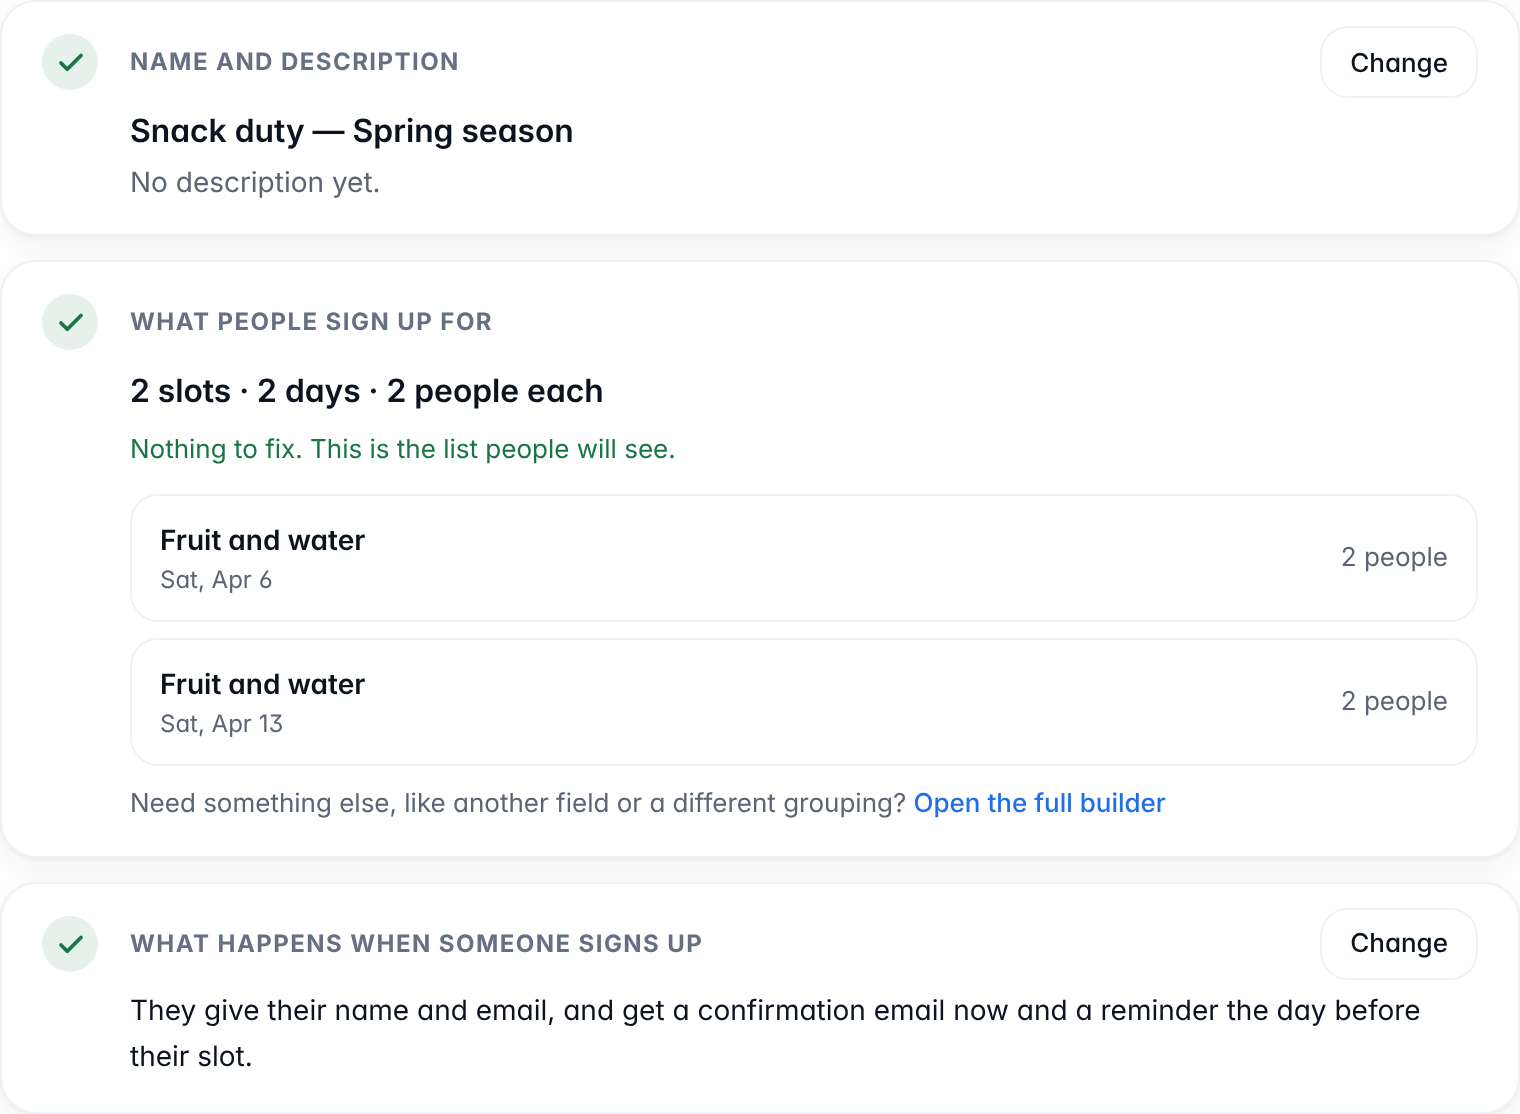
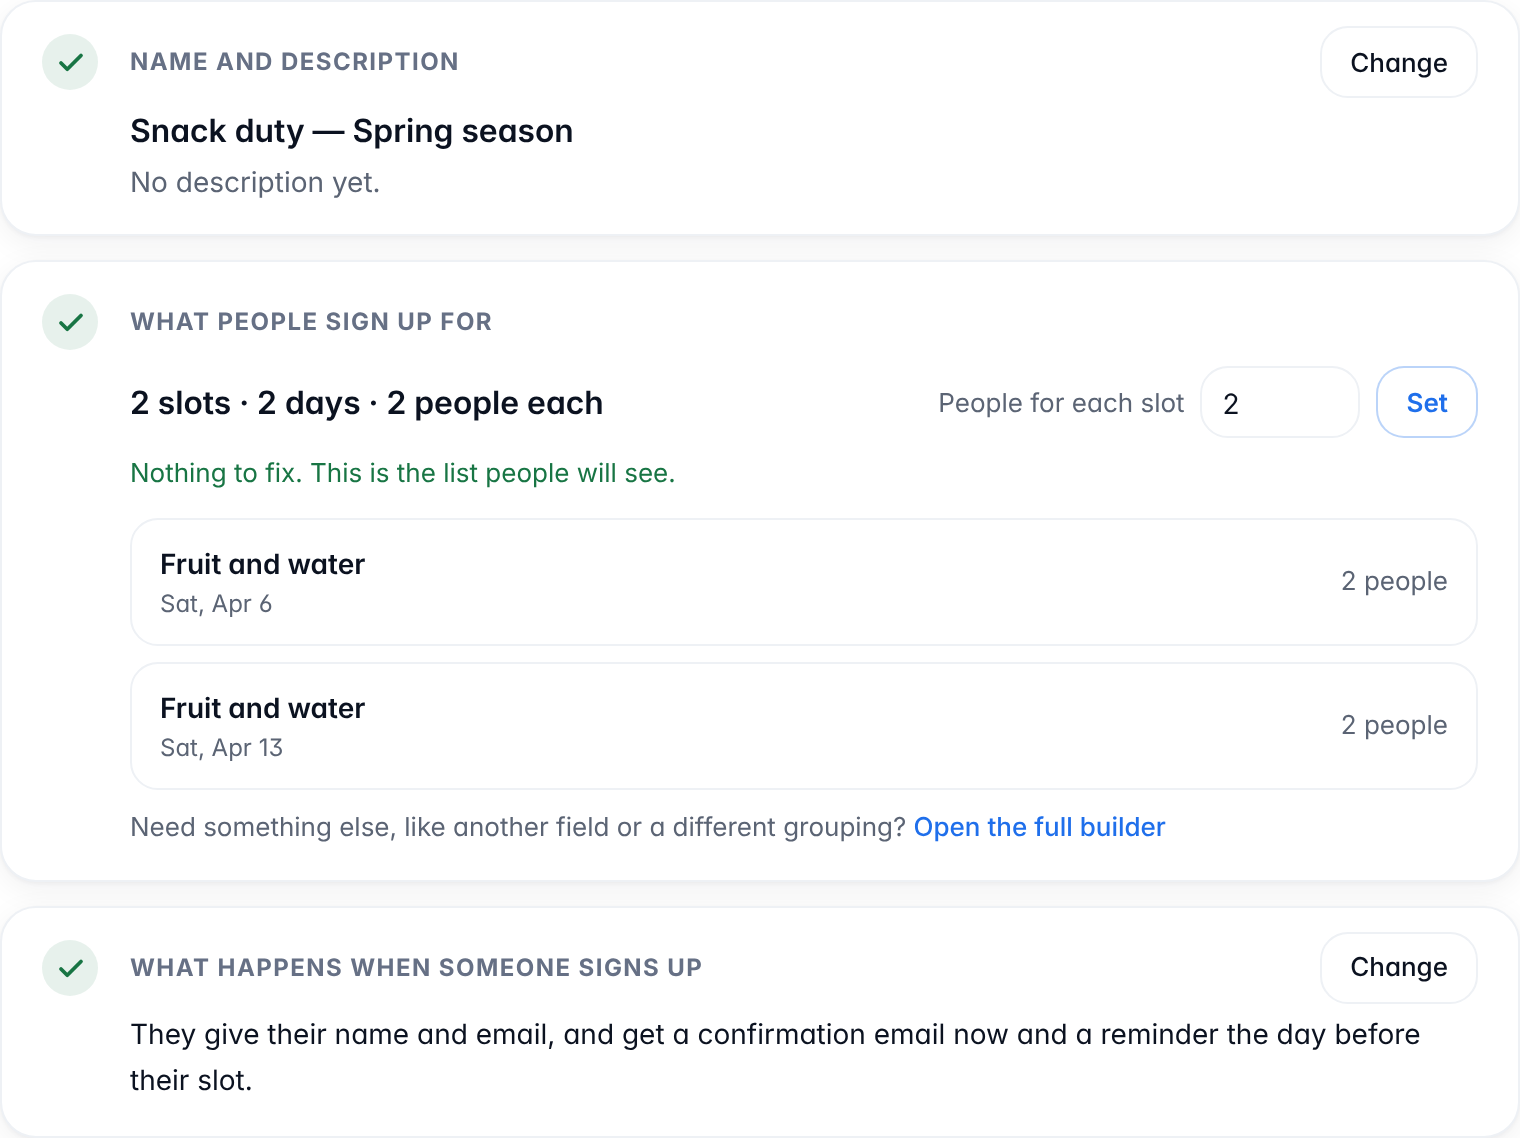
Show People for each slot in the review page's help picture
Re-taken with the pointer moved off the slot rows, which highlight under
it; the article's size and alt text follow the new picture.

Claude-Session: https://claude.ai/code/session_01BTvMvHZ4i4FWQFAsxcr5Zm

diff --git a/tests/e2e/help/create-and-publish-a-signup.spec.ts b/tests/e2e/help/create-and-publish-a-signup.spec.ts
@@ -133,6 +133,8 @@ test.describe('help: create and publish your first signup', () => {
     // Not pressed: it sends an email, and the article only names it.
     await expect(page.getByRole('button', { name: UI.emailMeLater })).toBeVisible();
     // The three cards, without the page's heading and buttons around them.
+    // The pointer off the slot rows, which highlight under it.
+    if (CAPTURE) await page.mouse.move(0, 0);
     await shot(page, page.locator('main ol'), 'check-your-signup');
     // Change opens the card's form, with Save; Cancel closes it.
     await signUpCard.getByRole('button', { name: new RegExp(`^${UI.change}`) }).click();

diff --git a/src/help/articles/create-and-publish-a-signup.tsx b/src/help/articles/create-and-publish-a-signup.tsx
@@ -151,9 +151,9 @@ export function CreateAndPublishASignup() {
             </p>
             <Screenshot
               src="/help/create-and-publish-a-signup/check-your-signup.png"
-              alt="Check your signup, then share it, with the signup's name, its two slots, nothing to fix, and what happens when someone signs up."
+              alt="Check your signup, then share it, with the signup's name, its two slots with People for each slot beside them, nothing to fix, and what happens when someone signs up."
               width={760}
-              height={557}
+              height={569}
             />
           </Step>
           <Step>
